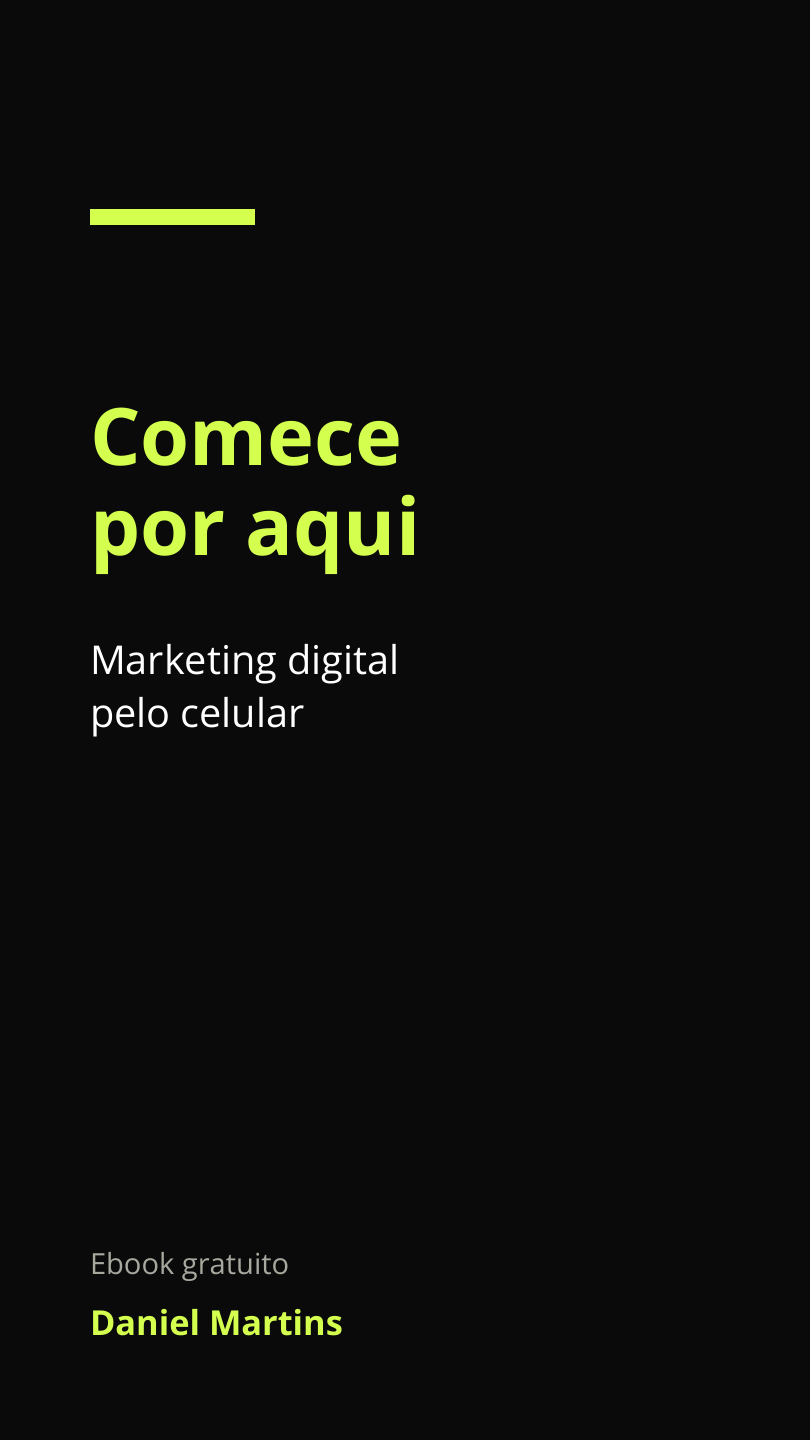
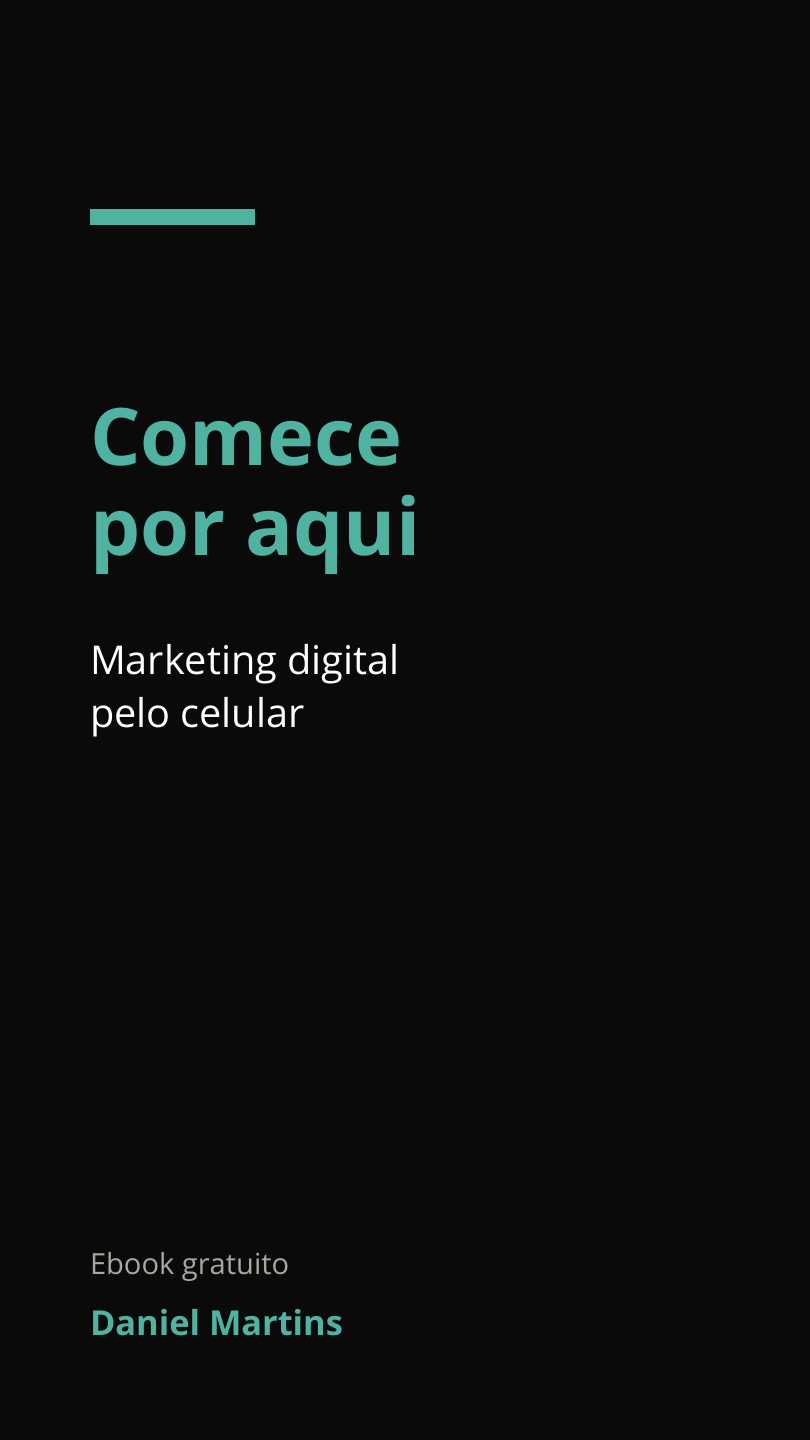
Publica a identidade turquesa aprovada da bio e do e-book

Changed region(s): [[0.0926, 0.2812, 0.5247, 0.4062], [0.0926, 0.9062, 0.4321, 0.9375], [0.0926, 0.125, 0.3086, 0.1562]]

diff --git a/index.html b/index.html
@@ -3,26 +3,26 @@
 <head>
 <meta charset="utf-8">
 <meta name="viewport" content="width=device-width, initial-scale=1, viewport-fit=cover">
-<meta name="theme-color" content="#0a0a0a">
+<meta name="theme-color" content="#000000">
 <title>Daniel Martins</title>
 <link rel="preconnect" href="https://fonts.googleapis.com">
 <link rel="preconnect" href="https://fonts.gstatic.com" crossorigin>
 <link href="https://fonts.googleapis.com/css2?family=Space+Grotesk:wght@500;700&family=Inter:wght@400;500;600&display=swap" rel="stylesheet">
 <style>
-  :root { --fundo:#0a0a0a; --verde:#d4ff4f; --texto:#f5f5f0; --suave:#a8a89f; --borda:#34342f;
+  :root { --fundo:#000000; --turquesa:#50B3A2; --texto:#FFFFFF; --suave:#A8A8A8; --borda:#636363;
     color-scheme:dark; }
   * { box-sizing:border-box; }
   html,body { margin:0; background-color:var(--fundo); color:var(--texto); overscroll-behavior-y:none; }
   body { font-family:"Inter","Segoe UI",system-ui,-apple-system,Roboto,Arial,sans-serif; min-height:100vh; min-height:100svh;
     padding:env(safe-area-inset-top,0px) env(safe-area-inset-right,0px)
       env(safe-area-inset-bottom,0px) env(safe-area-inset-left,0px);
-    background-image:radial-gradient(130% 55% at 50% 0%,#2d3a0c 0%,var(--fundo) 65%);
+    background-image:radial-gradient(130% 55% at 50% 0%,#1B3C36 0%,var(--fundo) 65%);
     background-origin:content-box; background-repeat:no-repeat; }
   main { max-width:440px; margin:0 auto; padding:40px 20px 32px; text-align:center; }
   h1, .t { font-family:"Space Grotesk","Inter","Segoe UI",system-ui,sans-serif; }
   .avatar { position:relative; width:112px; height:112px; margin:0 auto; border-radius:50%;
-    border:3px solid var(--verde); box-shadow:0 0 26px rgba(212,255,79,.4); overflow:hidden; background:#1b2208; }
-  .avatar span { position:absolute; inset:0; display:grid; place-items:center; font-size:34px; font-weight:700; color:var(--verde); }
+    border:3px solid var(--turquesa); box-shadow:0 0 26px rgba(80,179,162,.4); overflow:hidden; background:#122824; }
+  .avatar span { position:absolute; inset:0; display:grid; place-items:center; font-size:34px; font-weight:700; color:var(--turquesa); }
   .avatar img { position:absolute; inset:0; z-index:1; width:100%; height:100%; object-fit:cover; display:block; }
   h1 { font-size:30px; margin:clamp(22px,6vw,28px) 0 12px; letter-spacing:-.3px; }
   .sub { color:var(--suave); font-size:15px; line-height:1.45; margin:0 auto; max-width:320px; }
@@ -31,19 +31,19 @@
     margin:clamp(26px,7vw,32px) 0 clamp(30px,8vw,36px); }
   .redes a { width:46px; height:46px; display:grid; place-items:center; border:1px solid var(--borda); border-radius:12px; color:var(--texto); }
   svg { width:22px; height:22px; fill:none; stroke:currentColor; stroke-width:1.8; stroke-linecap:round; stroke-linejoin:round; }
-  .destaque { display:block; text-align:left; text-decoration:none; background:var(--verde); color:#101400;
+  .destaque { display:block; text-align:left; text-decoration:none; background:var(--turquesa); color:#000000;
     border-radius:22px; padding:18px 20px; margin-bottom:14px; }
   .topo { display:flex; align-items:center; justify-content:space-between; gap:10px; }
   .destaque .t { font-size:21px; font-weight:700; letter-spacing:-.3px; line-height:1.2; }
-  .destaque .s { display:block; font-size:14px; line-height:1.35; margin-top:5px; color:#35400a; }
+  .destaque .s { display:block; font-size:14px; line-height:1.35; margin-top:5px; color:#142D29; }
   .seta { display:block; flex:none; }
   .seta svg { width:24px; height:24px; }
   .btn { display:flex; align-items:center; gap:14px; text-decoration:none; text-align:left; color:var(--texto);
     border:1px solid var(--borda); border-radius:18px; padding:16px 18px; margin-bottom:12px; font-weight:600; font-size:16px; }
-  .btn .ic { color:var(--verde); flex:none; }
+  .btn .ic { color:var(--turquesa); flex:none; }
   .btn .tx { flex:1; }
   .btn small { display:block; font-weight:400; font-size:13px; margin-top:3px; color:var(--suave); }
-  a:focus-visible { outline:3px solid var(--verde); outline-offset:3px; }
+  a:focus-visible { outline:3px solid var(--turquesa); outline-offset:3px; }
   footer { margin-top:26px; font-size:12px; color:var(--suave); }
   body > .analytics-settings, body > .analytics-panel {
     position:static; margin:0 auto 16px;

diff --git a/comece-por-aqui.html b/comece-por-aqui.html
@@ -6,11 +6,11 @@
   <meta name="description" content="Baixe grátis o e-book de Daniel Martins sobre os primeiros passos no marketing digital pelo celular.">
   <title>Comece por aqui | Daniel Martins</title>
   <style>
-    :root { color-scheme: dark; --verde: #d4ff4f; --texto: #f5f5f0; --suave: #b8b8ae; }
+    :root { color-scheme: dark; --turquesa: #50B3A2; --texto: #FFFFFF; --suave: #B8B8B8; }
     * { box-sizing: border-box; }
     body {
       margin: 0; min-height: 100vh; color: var(--texto);
-      background: radial-gradient(ellipse at 50% 0%, #2d3a0c, #0a0a0a 65%);
+      background: radial-gradient(ellipse at 50% 0%, #1B3C36, #000000 65%);
       font: 1rem/1.5 Inter, system-ui, sans-serif;
     }
     main { width: min(100%, 900px); margin: auto; padding: clamp(20px, 5vw, 52px); }
@@ -20,7 +20,7 @@
       align-items: center; gap: clamp(24px, 7vw, 68px); margin-top: 24px;
     }
     .capa {
-      display: block; width: 100%; height: auto; border: 1px solid #414634;
+      display: block; width: 100%; height: auto; border: 1px solid #414141;
       border-radius: 14px; box-shadow: 0 12px 32px #0008;
     }
     h1 { margin: 0 0 12px; font-size: clamp(2rem, 5.6vw, 3rem); line-height: 1.11; }
@@ -28,14 +28,14 @@
     .acoes { display: flex; flex-wrap: wrap; gap: 12px; }
     .acao {
       display: inline-flex; justify-content: center; align-items: center; min-height: 48px;
-      padding: 10px 18px; border: 1px solid #606154; border-radius: 12px;
+      padding: 10px 18px; border: 1px solid #636363; border-radius: 12px;
       color: var(--texto); text-decoration: none; font-weight: 650;
     }
-    .baixar { color: #101400; background: var(--verde); border-color: var(--verde); }
+    .baixar { color: #000000; background: var(--turquesa); border-color: var(--turquesa); }
     .ajuda-download { margin-top: 18px; color: var(--suave); font-size: 0.875rem; text-align: left; }
     .ajuda-download summary { cursor: pointer; width: fit-content; text-decoration: underline; }
     .ajuda-download p { margin: 8px 0 0; }
-    a:focus-visible { outline: 3px solid var(--verde); outline-offset: 4px; }
+    a:focus-visible { outline: 3px solid var(--turquesa); outline-offset: 4px; }
     @media (max-width: 620px) {
       .livro { grid-template-columns: minmax(0, 1fr); text-align: center; margin-top: 12px; }
       .capa { width: min(88%, 360px); margin: auto; }

diff --git a/css/analytics-consent.css b/css/analytics-consent.css
@@ -3,9 +3,9 @@
   position: fixed;
   z-index: 10;
   left: max(12px, env(safe-area-inset-left));
-  color: #f5f5f0;
-  background: #181914;
-  border: 1px solid #77786a;
+  color: #FFFFFF;
+  background: #181818;
+  border: 1px solid #777777;
   border-radius: 10px;
   font: 0.875rem/1.4 system-ui, sans-serif;
 }
@@ -28,8 +28,8 @@
   min-height: 40px;
   padding: 6px 10px;
   color: inherit;
-  background: #24251c;
-  border: 1px solid #77786a;
+  background: #242424;
+  border: 1px solid #777777;
   border-radius: 8px;
   font: inherit;
   cursor: pointer;
@@ -37,6 +37,6 @@
 
 .analytics-settings:focus-visible,
 .analytics-panel button:focus-visible {
-  outline: 2px solid #d4ff4f;
+  outline: 2px solid #50B3A2;
   outline-offset: 2px;
 }
